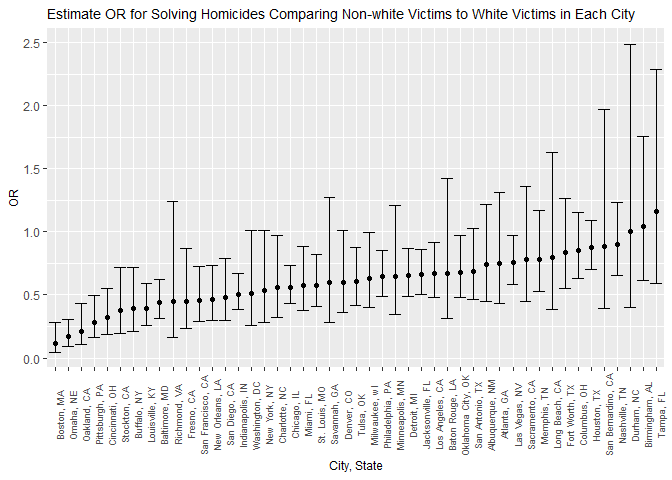
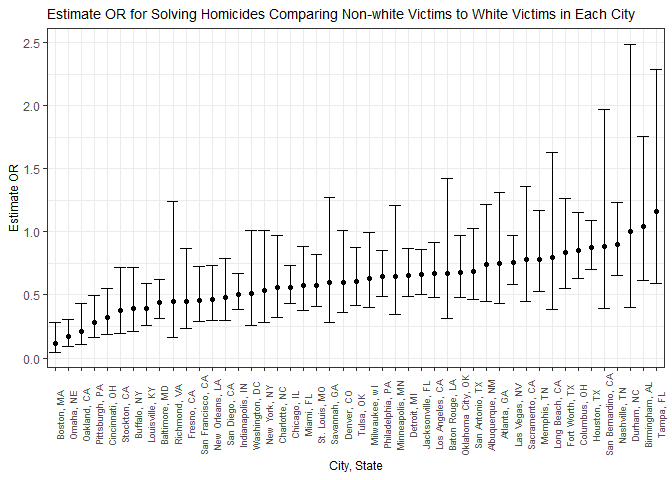
problem 2 done

Changed region(s): [[0.0, 0.3438, 0.0312, 0.5]]

diff --git a/p8105_hw6_js5165.md b/p8105_hw6_js5165.md
@@ -9,7 +9,7 @@ Problem 1
 ### Read and tidy data
 
 ``` r
-homicide = read_csv("./homicide-data.csv") %>% 
+homicide = read_csv('./homicide-data.csv') %>% 
   janitor::clean_names() %>% 
   mutate(city_state = paste(paste0(city, ","), state),
          victim_race = fct_relevel(ifelse(victim_race == 'White', 'white', 'non-white'), 'white'),
@@ -52,14 +52,14 @@ baltimore_glm %>% broom::tidy() %>%
   mutate(OR = exp(estimate),
          conf_low = exp(estimate - 1.96*std.error),
          conf_high = exp(estimate + 1.96*std.error)) %>% 
-  filter(term == "victim_racenon-white") %>% 
+  filter(term == 'victim_racenon-white') %>% 
   dplyr::select(term, estimate, OR, conf_low, conf_high, p.value) %>% 
-  knitr::kable(digits = 2)
+  knitr::kable(digits = 3)
 ```
 
-| term                  |  estimate|    OR|  conf\_low|  conf\_high|  p.value|
-|:----------------------|---------:|-----:|----------:|-----------:|--------:|
-| victim\_racenon-white |     -0.82|  0.44|       0.31|        0.62|        0|
+| term                  |  estimate|     OR|  conf\_low|  conf\_high|  p.value|
+|:----------------------|---------:|------:|----------:|-----------:|--------:|
+| victim\_racenon-white |     -0.82|  0.441|      0.313|        0.62|        0|
 
 ### Obtain the estimate and confidence interval for each city
 
@@ -72,7 +72,7 @@ all_glm = function(x){
   mutate(OR = exp(estimate),
          conf_low = exp(estimate - 1.96*std.error),
          conf_high = exp(estimate + 1.96*std.error)) %>% 
-    filter(term == "victim_racenon-white") %>% 
+    filter(term == 'victim_racenon-white') %>% 
     dplyr::select(beta = estimate, OR, conf_low, conf_high, p.value)
   }
 
@@ -90,12 +90,206 @@ city_glm %>%
   geom_point() +
   geom_errorbar(mapping = aes(ymin = conf_low, ymax = conf_high)) + 
   labs(
-    title = "Estimate OR for Solving Homicides Comparing Non-white Victims to White Victims in Each City",
-    x = "City, State",
-    y = "OR"
+    title = 'Estimate OR for Solving Homicides Comparing Non-white Victims to White Victims in Each City',
+    x = 'City, State',
+    y = 'Estimate OR'
     ) +
   theme(axis.text.x = element_text(angle = 90, size = 7),
         title = element_text(size = 9))
 ```
 
 ![](p8105_hw6_js5165_files/figure-markdown_github/p1_4-1.png)
+
+All the cities except Durham, Birmingham and Tampa, the estimate ratio are all lower than 1, which indicates the lower odds of solving homicides in non-white victims compared to in white victims. But we also need to consider about the 95% CI when giving our result.
+
+Problem 2
+---------
+
+### Read and tidy data
+
+``` r
+birthweight = read_csv('./birthweight.csv') %>% 
+  janitor::clean_names() %>% 
+  mutate(babysex = as.factor(babysex),
+         frace = as.factor(frace),
+         malform = as.factor(malform),
+         mrace = as.factor(mrace))
+```
+
+    ## Parsed with column specification:
+    ## cols(
+    ##   .default = col_integer(),
+    ##   gaweeks = col_double(),
+    ##   ppbmi = col_double(),
+    ##   smoken = col_double()
+    ## )
+
+    ## See spec(...) for full column specifications.
+
+``` r
+describe(birthweight)
+```
+
+    ##          vars    n    mean     sd  median trimmed    mad    min    max
+    ## babysex*    1 4342    1.49   0.50    1.00    1.48   0.00   1.00    2.0
+    ## bhead       2 4342   33.65   1.62   34.00   33.72   1.48  21.00   41.0
+    ## blength     3 4342   49.75   2.72   50.00   49.88   2.97  20.00   63.0
+    ## bwt         4 4342 3114.40 512.15 3132.50 3130.76 482.59 595.00 4791.0
+    ## delwt       5 4342  145.57  22.21  143.00  143.84  19.27  86.00  334.0
+    ## fincome     6 4342   44.11  25.98   35.00   42.02  29.65   0.00   96.0
+    ## frace*      7 4342    1.65   0.79    2.00    1.51   1.48   1.00    5.0
+    ## gaweeks     8 4342   39.43   3.15   39.90   39.69   2.08  17.70   51.3
+    ## malform*    9 4342    1.00   0.06    1.00    1.00   0.00   1.00    2.0
+    ## menarche   10 4342   12.51   1.48   12.00   12.47   1.48   0.00   19.0
+    ## mheight    11 4342   63.49   2.66   63.00   63.51   2.97  48.00   77.0
+    ## momage     12 4342   20.30   3.88   20.00   19.94   2.97  12.00   44.0
+    ## mrace*     13 4342    1.63   0.77    2.00    1.51   1.48   1.00    4.0
+    ## parity     14 4342    0.00   0.10    0.00    0.00   0.00   0.00    6.0
+    ## pnumlbw    15 4342    0.00   0.00    0.00    0.00   0.00   0.00    0.0
+    ## pnumsga    16 4342    0.00   0.00    0.00    0.00   0.00   0.00    0.0
+    ## ppbmi      17 4342   21.57   3.18   21.03   21.22   2.40  13.07   46.1
+    ## ppwt       18 4342  123.49  20.16  120.00  121.65  14.83  70.00  287.0
+    ## smoken     19 4342    4.15   7.41    0.00    2.36   0.00   0.00   60.0
+    ## wtgain     20 4342   22.08  10.94   22.00   21.73   8.90 -46.00   89.0
+    ##            range  skew kurtosis   se
+    ## babysex*    1.00  0.05    -2.00 0.01
+    ## bhead      20.00 -1.01     4.45 0.02
+    ## blength    43.00 -1.17     7.04 0.04
+    ## bwt      4196.00 -0.49     1.35 7.77
+    ## delwt     248.00  1.20     3.72 0.34
+    ## fincome    96.00  0.61    -0.64 0.39
+    ## frace*      4.00  1.56     2.74 0.01
+    ## gaweeks    33.60 -1.44     5.92 0.05
+    ## malform*    1.00 16.92   284.34 0.00
+    ## menarche   19.00  0.12     1.58 0.02
+    ## mheight    29.00 -0.19     1.12 0.04
+    ## momage     32.00  1.30     3.43 0.06
+    ## mrace*      3.00  1.49     2.45 0.01
+    ## parity      6.00 51.49  2821.55 0.00
+    ## pnumlbw     0.00   NaN      NaN 0.00
+    ## pnumsga     0.00   NaN      NaN 0.00
+    ## ppbmi      33.03  1.59     4.96 0.05
+    ## ppwt      217.00  1.49     5.18 0.31
+    ## smoken     60.00  2.22     5.38 0.11
+    ## wtgain    135.00  0.43     2.74 0.17
+
+There is no missing data in the dataset. I am going to use step-wise selection, which is a data-driven model-building process.
+
+### Selecting predictors for my model
+
+``` r
+full_model = lm(bwt ~ ., data = birthweight)
+step(full_model, direction='both',trace = 0)
+```
+
+    ## 
+    ## Call:
+    ## lm(formula = bwt ~ babysex + bhead + blength + delwt + fincome + 
+    ##     gaweeks + mheight + mrace + parity + ppwt + smoken, data = birthweight)
+    ## 
+    ## Coefficients:
+    ## (Intercept)     babysex2        bhead      blength        delwt  
+    ##   -6098.822       28.558      130.777       74.947        4.107  
+    ##     fincome      gaweeks      mheight       mrace2       mrace3  
+    ##       0.318       11.592        6.594     -138.792      -74.887  
+    ##      mrace4       parity         ppwt       smoken  
+    ##    -100.678       96.305       -2.676       -4.843
+
+Then we got 11 predictors in our model: babysex, bhead, blength, delwt, fincome, gaweeks, mheight, mrace, parity, ppwt and smoken
+
+Combining previous study result (G. LETAMO: FACTORS INFLUENCING LOW BIRTH WEIGHT AND PREMATURITY; Christopher S.: Maternal characteristics influencing birth weight and infant weight gain in the first 6 weeks post-partum), I chose 6 variables into my model: mother’s weight at delivery, mother’s race, gestational age in weeks, mother’s height, family monthly income, and average number of cigarettes smoked per day during pregnancy.
+
+``` r
+model = lm(bwt ~ delwt + fincome + gaweeks + mheight + mrace + smoken, data = birthweight)
+summary(model)
+```
+
+    ## 
+    ## Call:
+    ## lm(formula = bwt ~ delwt + fincome + gaweeks + mheight + mrace + 
+    ##     smoken, data = birthweight)
+    ## 
+    ## Residuals:
+    ##      Min       1Q   Median       3Q      Max 
+    ## -1737.39  -259.92     1.35   275.93  1492.00 
+    ## 
+    ## Coefficients:
+    ##              Estimate Std. Error t value Pr(>|t|)    
+    ## (Intercept) -427.3361   180.6501  -2.366 0.018047 *  
+    ## delwt          5.2884     0.3230  16.375  < 2e-16 ***
+    ## fincome        0.2254     0.2725   0.827 0.408307    
+    ## gaweeks       54.4149     2.1024  25.882  < 2e-16 ***
+    ## mheight       12.5476     2.7455   4.570 5.01e-06 ***
+    ## mrace2      -284.2462    15.2088 -18.690  < 2e-16 ***
+    ## mrace3       -47.2740    66.0701  -0.716 0.474331    
+    ## mrace4      -110.3942    30.1387  -3.663 0.000252 ***
+    ## smoken       -11.6982     0.9035 -12.948  < 2e-16 ***
+    ## ---
+    ## Signif. codes:  0 '***' 0.001 '**' 0.01 '*' 0.05 '.' 0.1 ' ' 1
+    ## 
+    ## Residual standard error: 425.5 on 4333 degrees of freedom
+    ## Multiple R-squared:  0.3109, Adjusted R-squared:  0.3096 
+    ## F-statistic: 244.3 on 8 and 4333 DF,  p-value: < 2.2e-16
+
+``` r
+#check assumption
+par(mfrow = c(2,2))
+plot(model)
+```
+
+![](p8105_hw6_js5165_files/figure-markdown_github/p2_2%20assumption-1.png)
+
+We can see that the normal Q-Q plot is linear, the assumption is not violated.
+
+``` r
+res_fit = birthweight %>% 
+  add_predictions(model) %>% 
+  add_residuals(model)
+ggplot(res_fit, aes(x = pred, y = resid)) +
+    geom_point() +
+    labs(
+      title = 'Residual vs. Fit',
+      x = 'Prediction',
+      y = 'Residual'
+      )
+```
+
+![](p8105_hw6_js5165_files/figure-markdown_github/p2_2%20res_fit-1.png)
+
+We can see the residuls are clustered. The model still need to be refined.
+
+### Model Comparison
+
+``` r
+cv = birthweight %>% 
+  crossv_mc(100)
+cv_compare = cv %>% 
+  mutate(model_1 = map(train, ~lm(bwt ~ blength + gaweeks, data = .)),
+         model_2 = map(train, ~lm(bwt ~ bhead + blength + babysex + bhead*babysex + bhead*blength + blength*babysex + bhead*babysex*blength, data = .)),
+         model = map(train, ~lm(bwt ~ delwt + fincome + gaweeks + mheight + mrace + smoken, data = .)),
+         rmse_model_1 = map2_dbl(model_1, test, ~rmse(.x, .y)),
+         rmse_model_2 = map2_dbl(model_2, test, ~rmse(.x, .y)),
+         rmse_model = map2_dbl(model, test, ~rmse(.x, .y)))
+```
+
+Comparison Using Plot
+---------------------
+
+``` r
+cv_compare %>% 
+  select(starts_with('rmse')) %>% 
+  gather(key = model, value = rmse, rmse_model_1:rmse_model) %>% 
+  mutate(model = str_replace(model, 'rmse_', ""),
+         model = fct_inorder(model)) %>% 
+  ggplot(aes(x = model, y = rmse)) + 
+  geom_violin() + 
+  labs(
+    title = "Prediction error distribution for models",
+    x = "Model",
+    y = "RMSE"
+   )
+```
+
+![](p8105_hw6_js5165_files/figure-markdown_github/p2_4-1.png)
+
+Based on the violin plot, my model has the smallest RMSE.
